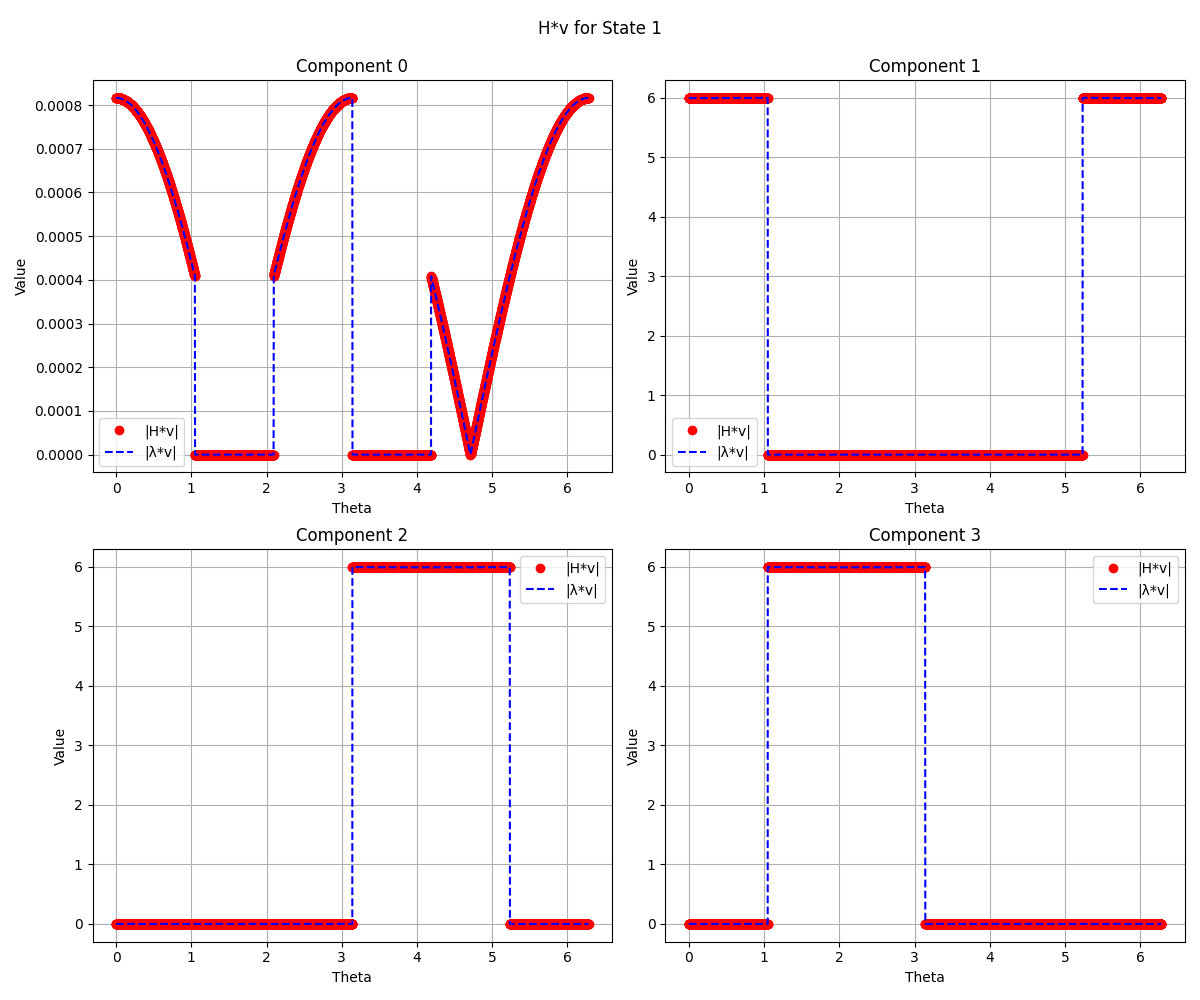
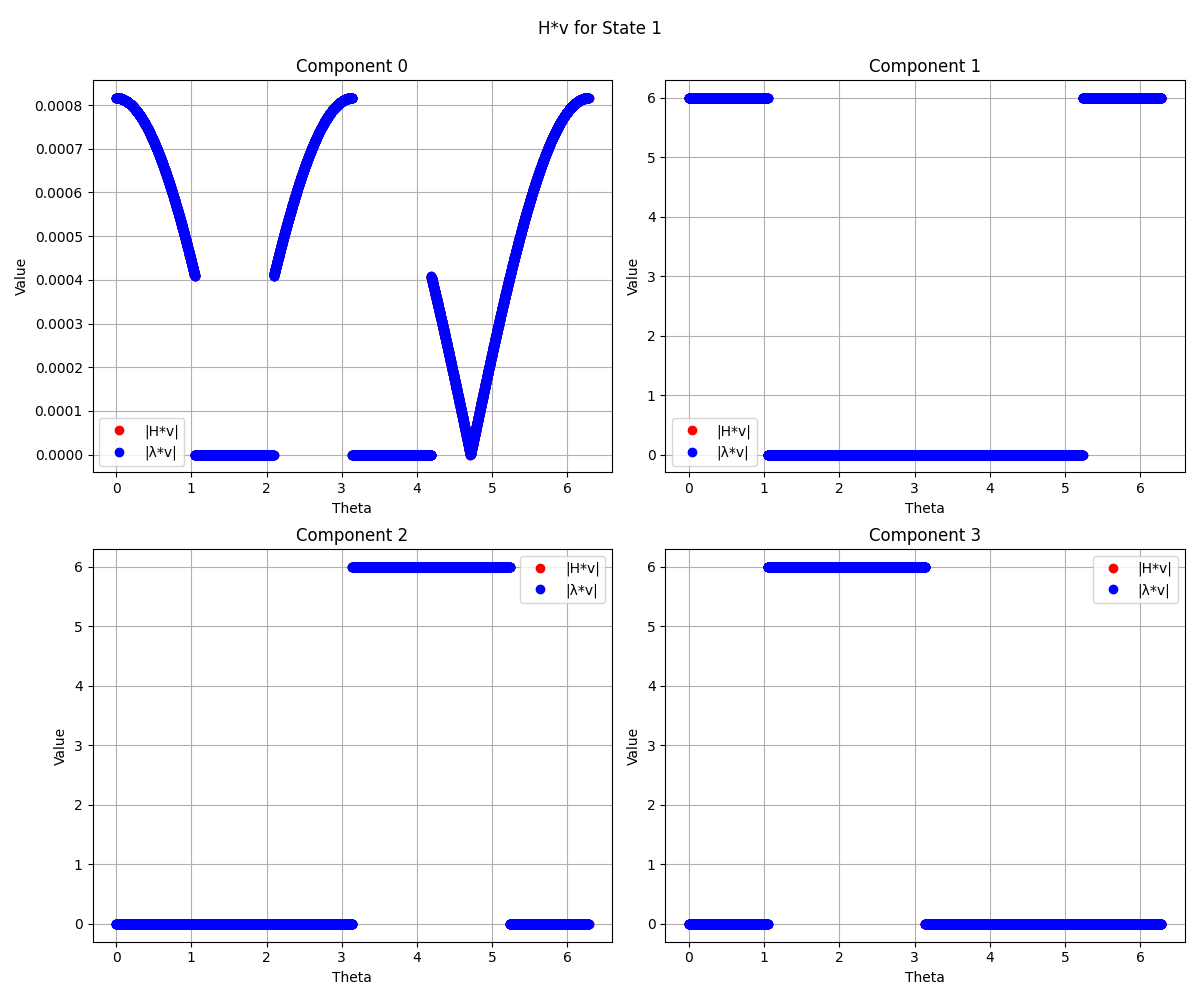
misc sum_total

diff --git a/new.py b/new.py
@@ -232,6 +232,7 @@ os.makedirs(npy_dir, exist_ok=True)
 os.makedirs(os.path.join(plot_dir, 'real'), exist_ok=True)
 os.makedirs(os.path.join(plot_dir, 'imag'), exist_ok=True)
 os.makedirs(os.path.join(plot_dir, 'abs'), exist_ok=True)
+os.makedirs(os.path.join(plot_dir, 'total_sum'), exist_ok=True)
 
 
 #plot the H*v aka Hamiltonian times eigenvectors
@@ -268,7 +269,7 @@ for state in range(eigvecs_all.shape[2]):
         #plot the magnitude of H*v
         axs[j].plot(theta_vals, np.abs(Hv_results[:, j]), 'ro', label='|H*v|')
         #plot the magnitude of λ*v
-        axs[j].plot(theta_vals, np.abs(lambda_v[:, j]), 'b--', label='|λ*v|')
+        axs[j].plot(theta_vals, np.abs(lambda_v[:, j]), 'bo', label='|λ*v|')
         
         axs[j].set_title(f'Component {j}')
         axs[j].set_xlabel('Theta')
@@ -295,7 +296,7 @@ for state in range(eigvecs_all.shape[2]):
         #plot the real of H*v
         axs[j].plot(theta_vals, np.real(Hv_results[:, j]), 'ro', label='Re(H*v)')
         #plot the real of lambda_v
-        axs[j].plot(theta_vals, np.real(lambda_v[:, j]), 'b--', label='Re(λ*v)')
+        axs[j].plot(theta_vals, np.real(lambda_v[:, j]), 'bo', label='Re(λ*v)')
         
         axs[j].set_title(f'Component {j}')
         axs[j].set_xlabel('Theta')
@@ -317,7 +318,7 @@ for state in range(eigvecs_all.shape[2]):
         #plot the imaginary of H*v
         axs[j].plot(theta_vals, np.imag(Hv_results[:, j]), 'ro', label='Im(H*v)')
         #plot the imaginary of lambda_v
-        axs[j].plot(theta_vals, np.imag(lambda_v[:, j]), 'b--', label='Im(λ*v)')
+        axs[j].plot(theta_vals, np.imag(lambda_v[:, j]), 'bo', label='Im(λ*v)')
         
         axs[j].set_title(f'Component {j}')
         axs[j].set_xlabel('Theta')
@@ -341,7 +342,7 @@ for state in range(eigvecs_all.shape[2]):
     fig, axs = plt.subplots(2, 2, figsize=(10, 8))
     axs = axs.ravel()
     for j in range(4):
-        axs[j].plot(theta_vals, np.abs(Hv_sum[j]), 'r-', label=f'Component {j}')
+        axs[j].plot(theta_vals, np.abs(Hv_sum[j]), 'ro', label=f'Component {j}')
         axs[j].set_title(f'Component {j}')
         axs[j].set_xlabel('Theta')
         axs[j].set_ylabel('Value')
@@ -351,14 +352,14 @@ for state in range(eigvecs_all.shape[2]):
     plt.suptitle(f'H*v Sum Components for State {state}')
     plt.subplots_adjust(top=0.92)
     plt.savefig(f'{plot_dir}/abs/H_times_v_sum_components_state_{state}.png')
-    print(f"Saved {plot_dir}/abs/H_times_v_sum_components_state_{state}.png")
+    #print(f"Saved {plot_dir}/abs/H_times_v_sum_components_state_{state}.png")
     plt.close()
 
     #plot each component of Hv_sum in a 2x2 grid
     fig, axs = plt.subplots(2, 2, figsize=(10, 8))
     axs = axs.ravel()
     for j in range(4):
-        axs[j].plot(theta_vals, np.real(Hv_sum[j]), 'r-', label=f'Component {j}')
+        axs[j].plot(theta_vals, np.real(Hv_sum[j]), 'ro', label=f'Component {j}')
         axs[j].set_title(f'Component {j}')
         axs[j].set_xlabel('Theta')
         axs[j].set_ylabel('Value')
@@ -368,13 +369,14 @@ for state in range(eigvecs_all.shape[2]):
     plt.suptitle(f'H*v Sum Components for State {state}')
     plt.subplots_adjust(top=0.92)
     plt.savefig(f'{plot_dir}/real/H_times_v_sum_components_state_{state}.png')
+    #print(f"Saved {plot_dir}/real/H_times_v_sum_components_state_{state}.png")
     plt.close()
 
     #plot each component of Hv_sum in a 2x2 grid
     fig, axs = plt.subplots(2, 2, figsize=(10, 8))
     axs = axs.ravel()
     for j in range(4):
-        axs[j].plot(theta_vals, np.imag(Hv_sum[j]), 'r-', label=f'Component {j}')
+        axs[j].plot(theta_vals, np.imag(Hv_sum[j]), 'ro', label=f'Component {j}')
         axs[j].set_title(f'Component {j}')
         axs[j].set_xlabel('Theta')
         axs[j].set_ylabel('Value')
@@ -384,14 +386,46 @@ for state in range(eigvecs_all.shape[2]):
     plt.suptitle(f'H*v Sum Components for State {state}')
     plt.subplots_adjust(top=0.92)
     plt.savefig(f'{plot_dir}/imag/H_times_v_sum_components_state_{state}.png')
-    print(f"Saved {plot_dir}/imag/H_times_v_sum_components_state_{state}.png")
+    #print(f"Saved {plot_dir}/imag/H_times_v_sum_components_state_{state}.png")
     plt.close()
 
-# Compute the Berry connection
-A_R_vals = berry_connection(R_vals, eigvecs_all)
+        # Calculate the sum of H*v across all components and theta values
+    S_total = np.sum(Hv_results, axis=(1, 0))
 
-# Compute the Berry phase
-berry_phases_corrected = berry_phase(A_R_vals)
+    # Calculate the sum of lambda*v across all components and theta values
+    lambda_total = np.sum(lambda_v, axis=(1, 0))
+
+    # Print the total sums
+    print(f"State {state}: Sum(H*v) = {S_total}, Sum(lambda*v) = {lambda_total}")
+
+    # Plot the real and imaginary parts of the total sums
+    plt.figure()
+    plt.plot(theta_vals, np.real(S_total) * np.ones_like(theta_vals), 'ro', label=r"Re($S_{\text{total}}$)")
+    plt.plot(theta_vals, np.imag(S_total) * np.ones_like(theta_vals), 'bo', label=r"Im($S_{\text{total}}$)")
+    plt.xlabel(r'$\theta$')
+    plt.ylabel(r'Total Sum $S_{\text{total}}$')
+    plt.legend()
+    plt.grid()
+    plt.title(r'Total Sum $S_{\text{total}}$ vs. $\theta$ for State {state}')
+    plt.savefig(f'{plot_dir}/total_sum/H_times_v_sum_total_state_{state}.png')
+    plt.close()
+
+    # Plot the magnitude of the total sums
+    plt.figure()
+    plt.plot(theta_vals, np.abs(S_total) * np.ones_like(theta_vals), 'ro', label=r"|$S_{\text{total}}$|")
+    plt.xlabel(r'$\theta$')
+    plt.ylabel(r'Magnitude of Total Sum $S_{\text{total}}$')
+    plt.legend()
+    plt.grid()
+    plt.title(r'Magnitude of Total Sum $S_{\text{total}}$ vs. $\theta$ for State {state}')
+    plt.savefig(f'{plot_dir}/total_sum/abs_H_times_v_sum_total_state_{state}.png')
+    plt.close()
+
+    # Compute the Berry connection
+    A_R_vals = berry_connection(R_vals, eigvecs_all)
+
+    # Compute the Berry phase
+    berry_phases_corrected = berry_phase(A_R_vals)
 
 # Output the computed Berry phases
 print(np.array2string(berry_phases_corrected, formatter={'float_kind':lambda x: np.format_float_scientific(x, precision=10)}))
